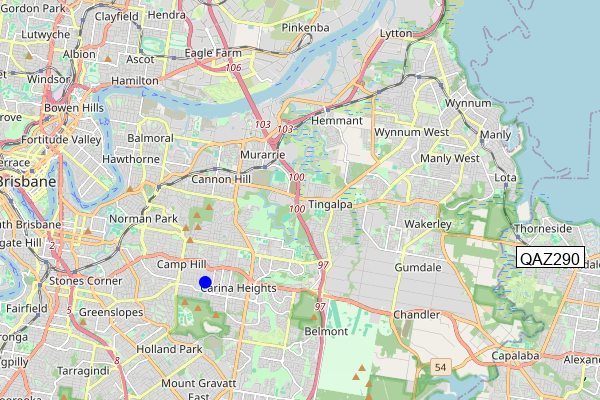
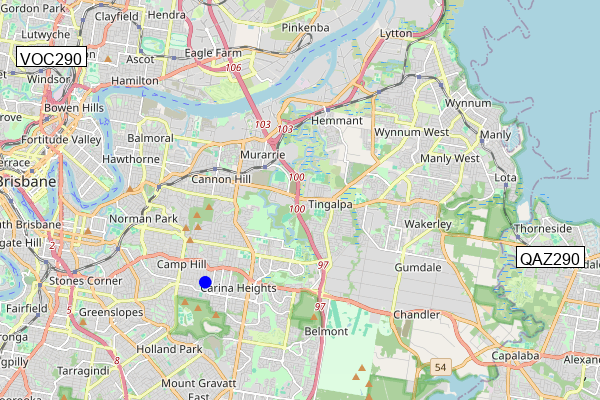
Updated draw map

Changed region(s): [[0.0, 0.09, 0.15, 0.18]]

diff --git a/src/Services/map.py b/src/Services/map.py
@@ -2,7 +2,7 @@ from staticmap import StaticMap, CircleMarker
 from PIL import Image, ImageDraw, ImageFont
 
 
-def generateMap (callSigns, pixX, pixY):
+def generateMap (flights):
     # Create a map (size in pixels)
     m = StaticMap(600, 400)
 
@@ -23,29 +23,29 @@ def generateMap (callSigns, pixX, pixY):
     except:
         font = ImageFont.load_default()
 
+    for plane in flights:
 
+        #set name and pixel position
+        text = plane[0]
+        text_x = plane[3]
+        text_y = plane[4]
+
+         # Get text bounding box
+        bbox = draw.textbbox((text_x, text_y), text, font=font)
+        text_w = bbox[2] - bbox[0]
+        text_h = bbox[3] - bbox[1]
     
-    # Calculate vertical placement
-    y_offset = 25
-    text = callSigns
-    text_x = pixX
-    text_y = pixY 
+        # Draw rectangle
+        padding = 4
+        box_coords = [
+            (text_x - padding, text_y - padding),
+            (text_x + text_w + padding, text_y + text_h + padding)
+        ]
+        draw.rectangle(box_coords, fill="white", outline="black")
 
-    # Get text bounding box
-    bbox = draw.textbbox((text_x, text_y), text, font=font)
-    text_w = bbox[2] - bbox[0]
-    text_h = bbox[3] - bbox[1]
+        # Draw text
+        draw.text((text_x, text_y), text, font=font, fill="black")
 
-    # Draw rectangle
-    padding = 4
-    box_coords = [
-        (text_x - padding, text_y - padding),
-        (text_x + text_w + padding, text_y + text_h + padding)
-    ]
-    draw.rectangle(box_coords, fill="white", outline="black")
-
-    # Draw text
-    draw.text((text_x, text_y), text, font=font, fill="black")
-
+    #save and show image
     image.save("map.png")
     image.show()

diff --git a/src/main.py b/src/main.py
@@ -53,12 +53,15 @@ def main():
     #flight details list, calsign, lat, lon, pixX, pixY
     flights = [["VOC290", -27.44, 153.0, 0, 0],
                ["QAZ290", -27.5, 153.15, 0, 0]]
+    
+    
 
     for plane in flights:
         #convert lon/lat to pixelcoords
         plane[3], plane[4] = plotCoords(lat = plane[1], lon = plane[2])
 
-        generateMap(callSigns=plane[0], pixX=plane[3], pixY=plane[4] )
+
+    generateMap(flights)
 
 if __name__ == "__main__":
     main()
